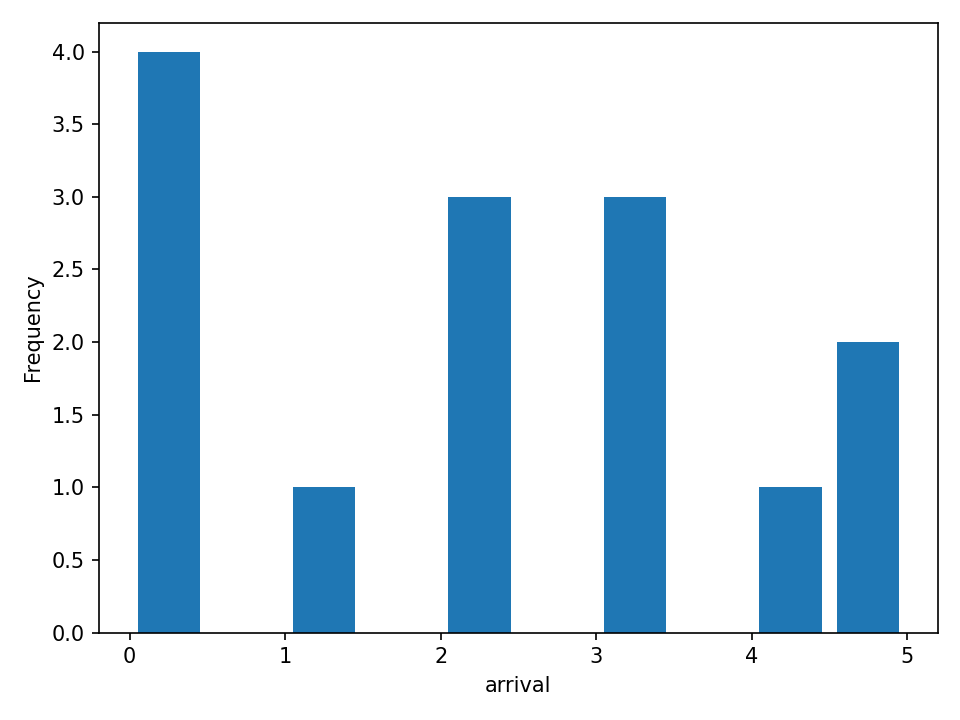
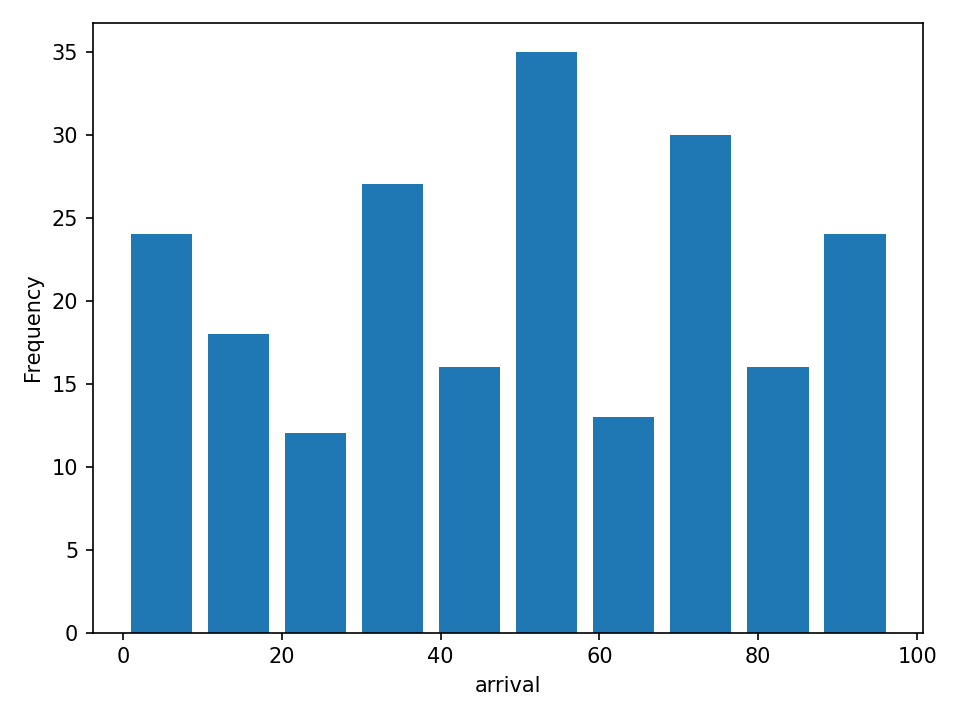
generate histogram and scatter plots

Changed region(s): [[0.0312, 0.0306, 0.9688, 0.9167], [0.5, 0.9472, 0.5625, 0.9778]]

diff --git a/implementation/obj-a/visualizer.py b/implementation/obj-a/visualizer.py
@@ -1,9 +1,9 @@
 # visualizer.py - Workload Visualizer for Objective A
 # Requires: pandas, matplotlib
 '''
-1. python visualizer.py --infile workloads/in0.csv --hist arrival --bins 10 --out workloads/arrival_hist.png
+1. python visualizer.py --infile workloads/in_poisson.csv --hist arrival --bins 10 --out workloads/arrival_hist.png
 
-2. python visualizer.py --infile workloads/in0.csv --scat arrival,num_tasks --out workloads/arrivals_vs_tasks.png
+2. python visualizer.py --infile workloads/in_poisson.csv --scat arrival,num_tasks --out workloads/arrivals_vs_tasks.png
 
 '''
 import argparse
